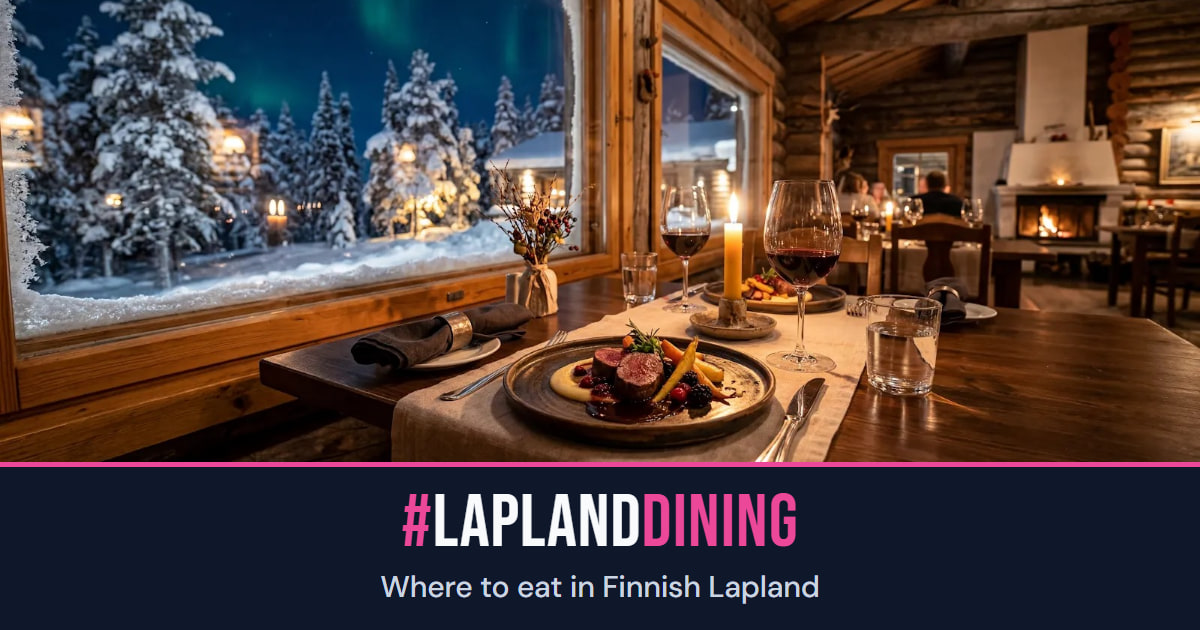
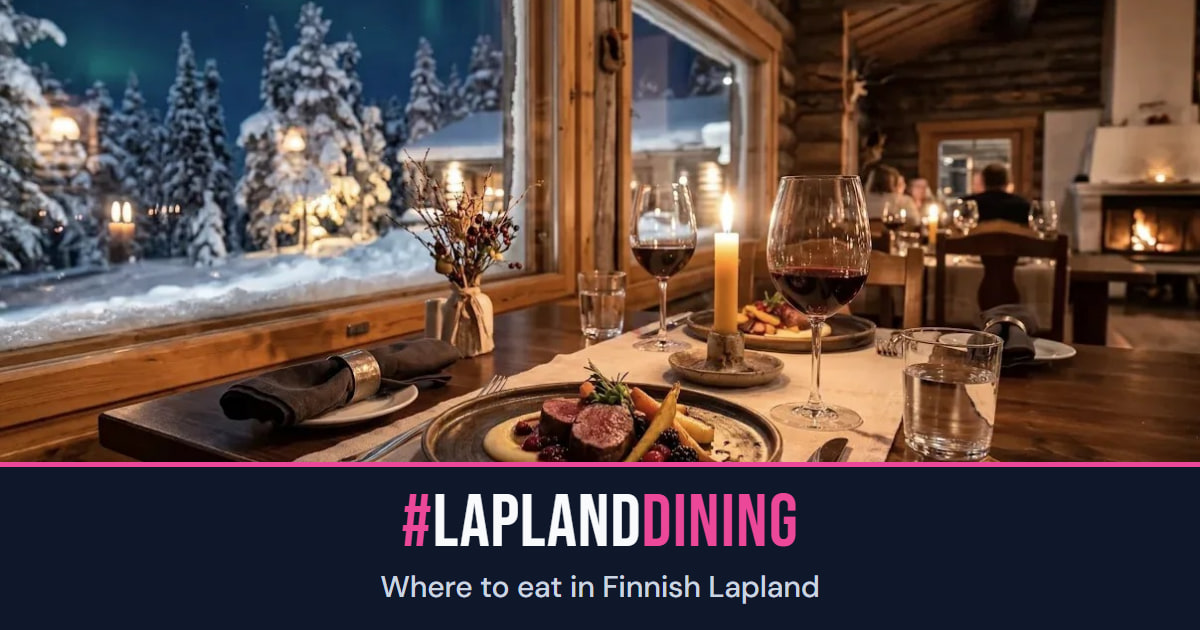
Hero-tekstien kontrasti ja ranskan navin rivitys
Uudet portit loysivat kolme ennestaan ollutta vikaa:

heroteksti (26 loydosta): kaupunkisivujen ylarivi oli 11 px korostusvarilla valokuvan
paalla — verkoston mitattu heikoin tekstityyppi. Levi 2,05:1, Yllas 3,37:1, raja 4,5:1.
Ylarivi valkoiseksi + varjo, kaupunkisivun peite 45->72 %, etusivun peitteen keskikohta
42->62 % ja ingressi gray-200 -> valkoinen. 26 -> 0 loydosta.

navi (4 loydosta): ranskan otsikot rivittyivat 1280 px:ssa. Ne ovat verkoston pisimmat
('Haute gastronomie', 'Histoire culinaire', 'Produits locaux'). Navin vali gap-7 ->
gap-4, ja 2xl:ssa takaisin gap-7 jossa tilaa on. Ranskan pisin otsikko 'Haute
gastronomie' -> 'Gastronomie' (merkitys sailyy ruokasivustolla).

korttiteksti (1 loydos): etusivun ingressi 2,06:1 heroInterior-kuvan paalla. Sama korjaus.

Lisaksi otsikko: sanamerkki 'LaplandDining:' pois 12 kielelta, englanti mitatun termin
mukaan (restaurants in rovaniemi 590/kk).

diff --git a/src/pages/CityPage.tsx b/src/pages/CityPage.tsx
@@ -168,7 +168,7 @@ export default function CityPage() {
         <div
           className={
             city.photo
-              ? 'absolute inset-0 bg-gradient-to-b from-night/45 via-night/40 to-night'
+              ? 'absolute inset-0 bg-gradient-to-b from-night/72 via-night/62 to-night'
               : 'absolute inset-0 bg-gradient-to-b from-night/75 via-night/65 to-night'
           }
         />
@@ -176,12 +176,12 @@ export default function CityPage() {
             kaupunkisivun otsikkoa: Kuusamon sivu kattaa myos Rukan 22 km:n
             paassa (Vesa 7.9.: "riistaravintola on rukalla, ei kuusamossa"). */}
         {city.photo && city.photoCredit && (
-          <p className="absolute bottom-3 right-4 z-10 text-[11px] text-white/65 tracking-wide">
+          <p className="absolute bottom-3 right-4 z-10 rounded bg-black/55 px-1.5 py-px text-[11px] text-white/90 tracking-wide">
             Kuva: LaplandVibes · {city.photoCredit}
           </p>
         )}
         <div className="relative z-10 max-w-4xl mx-auto px-5 py-20 text-center">
-          <p className="inline-flex items-center gap-2 text-amber text-[11px] font-bold uppercase tracking-[0.25em] mb-4">
+          <p className="inline-flex items-center gap-2 text-white text-[11px] font-bold uppercase tracking-[0.25em] mb-4 drop-shadow-[0_2px_10px_rgba(0,0,0,0.95)]">
             <MapPin size={13} /> {t('cities.shared.kicker', { defaultValue: 'Where to eat' })}
           </p>
           <h1

diff --git a/src/pages/Home.tsx b/src/pages/Home.tsx
@@ -72,7 +72,7 @@ export default function Home() {
           className="absolute inset-0"
           style={{
             background:
-              'linear-gradient(to top, rgba(15,23,42,0.80) 0%, rgba(15,23,42,0.42) 50%, rgba(15,23,42,0.30) 100%)',
+              'linear-gradient(to top, rgba(15,23,42,0.86) 0%, rgba(15,23,42,0.62) 50%, rgba(15,23,42,0.38) 100%)',
           }}
         />
 
@@ -80,7 +80,7 @@ export default function Home() {
           <h1 className="font-heading text-5xl sm:text-6xl md:text-7xl lg:text-8xl text-white tracking-wide leading-tight mb-6 drop-shadow-[0_2px_18px_rgba(0,0,0,0.9)] xl:text-[clamp(96px,1.5vw_+_76.8px,115.2px)]">
             {t('home.heroH1')}
           </h1>
-          <p className="text-lg sm:text-xl text-gray-200 max-w-2xl xl:max-w-4xl mx-auto mb-10 font-body leading-relaxed drop-shadow-[0_2px_12px_rgba(0,0,0,0.9)] xl:text-2xl">
+          <p className="text-lg sm:text-xl text-white max-w-2xl xl:max-w-4xl mx-auto mb-10 font-body leading-relaxed drop-shadow-[0_2px_12px_rgba(0,0,0,0.9)] xl:text-2xl">
             {t('home.heroLead')}
           </p>
           <div className="flex flex-col sm:flex-row items-center justify-center gap-3">

diff --git a/src/components/Navbar.tsx b/src/components/Navbar.tsx
@@ -58,7 +58,10 @@ export default function Navbar() {
             </Link>
           </div>
 
-          <div className="hidden xl:flex items-center gap-7">
+          {/* 🔴 gap-7 riitti englannille mutta ei ranskalle: "Haute gastronomie",
+              "Histoire culinaire" ja "Produits locaux" rivittyivat 1280 px:ssa
+              (navi-portti 21.9.2026). Vali kasvaa vasta 2xl:ssa, jossa tilaa on. */}
+          <div className="hidden xl:flex items-center gap-4 2xl:gap-7">
             {NAV_KEYS.map((link) => (
               <Link
                 key={link.basePath}
